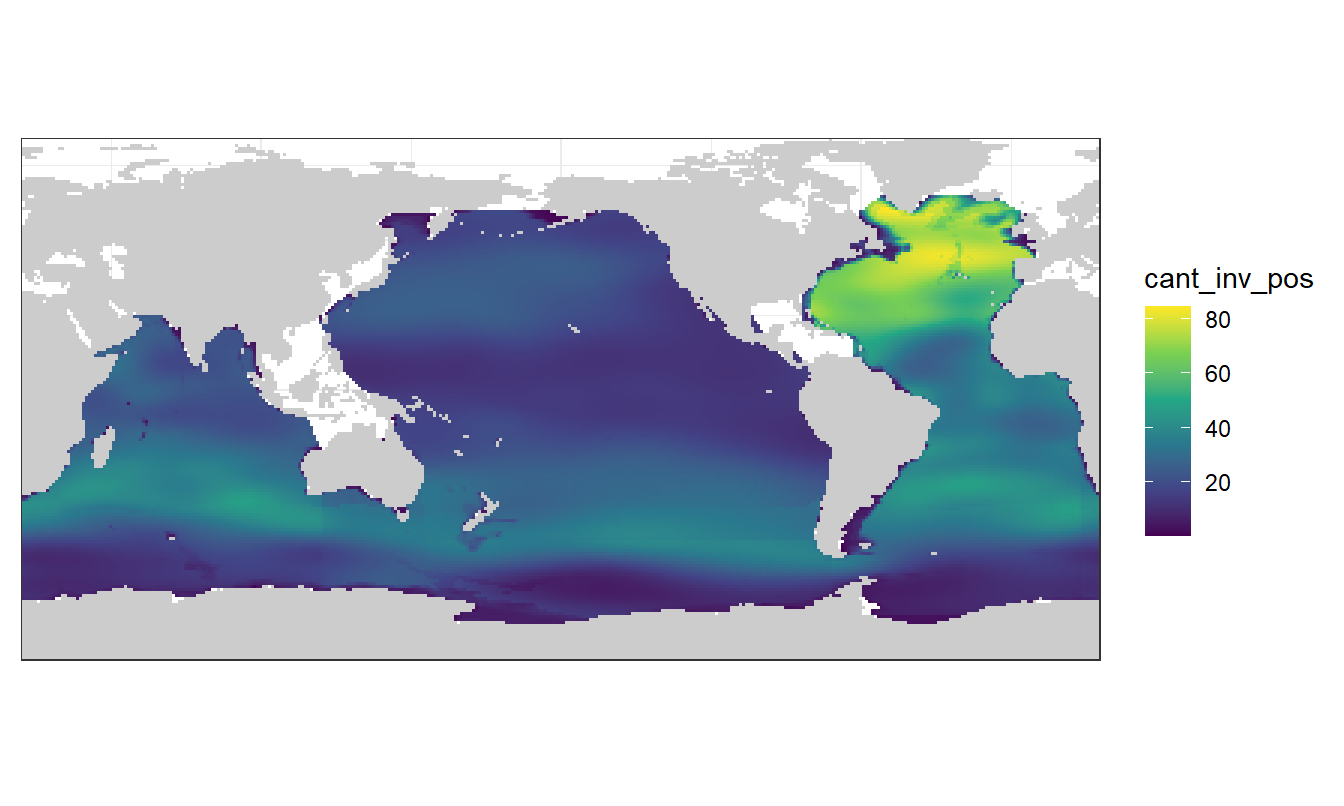
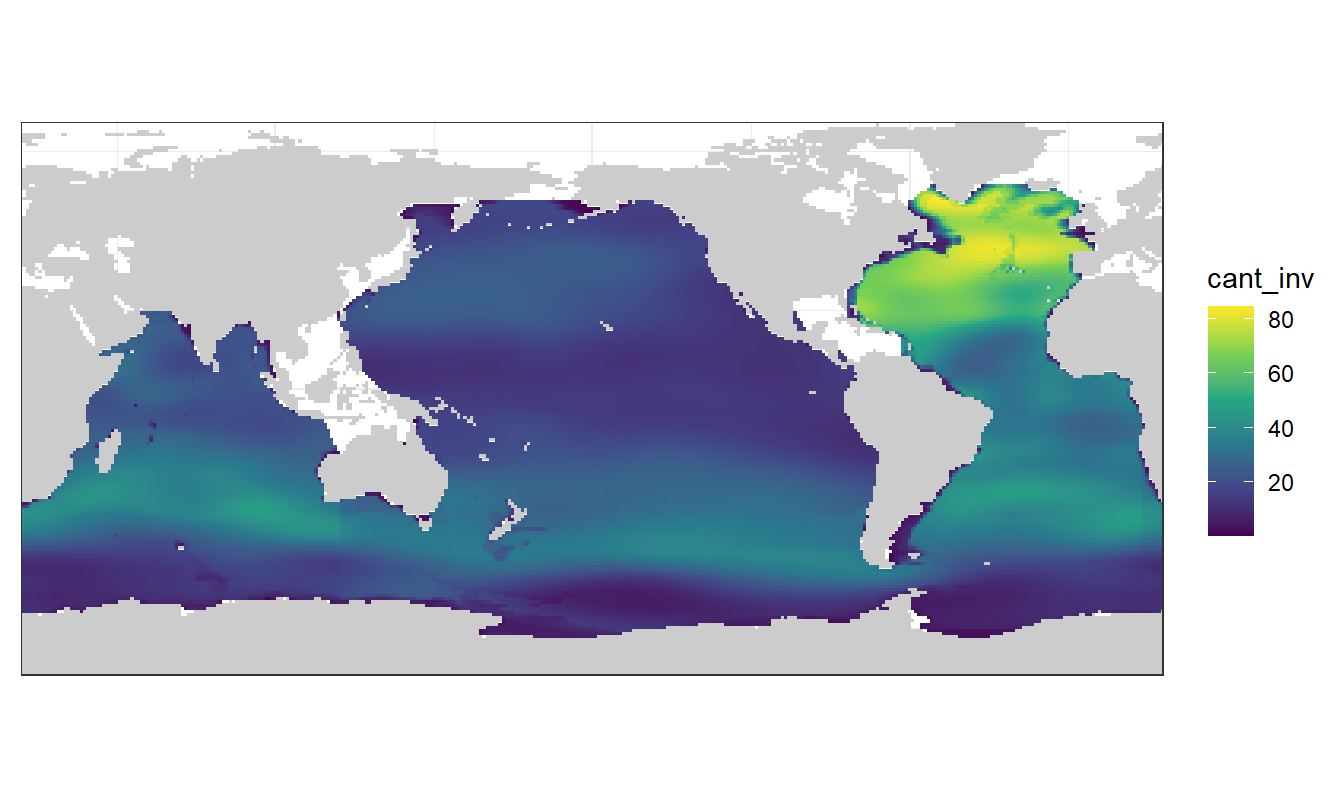
Build site.

diff --git a/docs/read_Sabine_2004_Cant.html b/docs/read_Sabine_2004_Cant.html
@@ -457,7 +457,7 @@ div.tocify {
 
 <h1 class="title toc-ignore">Anthropogenic CO2 from 1994 to 2007</h1>
 <h4 class="author">Jens Daniel Müller</h4>
-<h4 class="date">13 August, 2020</h4>
+<h4 class="date">14 August, 2020</h4>
 
 </div>
 
@@ -482,7 +482,7 @@ div.tocify {
 <div class="tab-content">
 <div id="summary" class="tab-pane fade in active">
 <p>
-<strong>Last updated:</strong> 2020-08-13
+<strong>Last updated:</strong> 2020-08-14
 </p>
 <p>
 <strong>Checks:</strong> <span class="glyphicon glyphicon-ok text-success" aria-hidden="true"></span> 7 <span class="glyphicon glyphicon-exclamation-sign text-danger" aria-hidden="true"></span> 0
@@ -573,16 +573,16 @@ This reproducible <a href="http://rmarkdown.rstudio.com">R Markdown</a> analysis
 <div class="panel panel-default">
 <div class="panel-heading">
 <p class="panel-title">
-<a data-toggle="collapse" data-parent="#workflowr-checks" href="#strongRepositoryversionstrongahrefhttpsgithubcomjensdanielmuellerCanteMLRtree333ea4b1747645952a82999f8598f2ccca0653cftargetblank333ea4ba"> <span class="glyphicon glyphicon-ok text-success" aria-hidden="true"></span> <strong>Repository version:</strong> <a href="https://github.com/jens-daniel-mueller/Cant_eMLR/tree/333ea4b1747645952a82999f8598f2ccca0653cf" target="_blank">333ea4b</a> </a>
+<a data-toggle="collapse" data-parent="#workflowr-checks" href="#strongRepositoryversionstrongahrefhttpsgithubcomjensdanielmuellerCanteMLRtree23556f68a629f7331179b66bff52a820c52f43eatargetblank23556f6a"> <span class="glyphicon glyphicon-ok text-success" aria-hidden="true"></span> <strong>Repository version:</strong> <a href="https://github.com/jens-daniel-mueller/Cant_eMLR/tree/23556f68a629f7331179b66bff52a820c52f43ea" target="_blank">23556f6</a> </a>
 </p>
 </div>
[2 lines of base64/hex data omitted]
 <div class="panel-body">
 <p>
 Great! You are using Git for version control. Tracking code development and connecting the code version to the results is critical for reproducibility.
 </p>
 <p>
-The results in this page were generated with repository version <a href="https://github.com/jens-daniel-mueller/Cant_eMLR/tree/333ea4b1747645952a82999f8598f2ccca0653cf" target="_blank">333ea4b</a>. See the <em>Past versions</em> tab to see a history of the changes made to the R Markdown and HTML files.
+The results in this page were generated with repository version <a href="https://github.com/jens-daniel-mueller/Cant_eMLR/tree/23556f68a629f7331179b66bff52a820c52f43ea" target="_blank">23556f6</a>. See the <em>Past versions</em> tab to see a history of the changes made to the R Markdown and HTML files.
 </p>
 <p>
 Note that you need to be careful to ensure that all relevant files for the analysis have been committed to Git prior to generating the results (you can use <code>wflow_publish</code> or <code>wflow_git_commit</code>). workflowr only checks the R Markdown file, but you know if there are other scripts or data files that it depends on. Below is the status of the Git repository when the results were generated:
@@ -603,9 +603,6 @@ Ignored files:
     Ignored:    data/parameters/
     Ignored:    dump/
     Ignored:    figure/
-
-Unstaged changes:
-    Modified:   analysis/_site.yml
 
 </code></pre>
 <p>
@@ -644,6 +641,40 @@ Message
 </tr>
 </thead>
 <tbody>
+<tr>
+<td>
+Rmd
+</td>
+<td>
+<a href="https://github.com/jens-daniel-mueller/Cant_eMLR/blob/23556f68a629f7331179b66bff52a820c52f43ea/analysis/read_Sabine_2004_Cant.Rmd" target="_blank">23556f6</a>
+</td>
+<td>
+jens-daniel-mueller
+</td>
+<td>
+2020-08-14
+</td>
+<td>
+changed cant naming in sabine inventory
+</td>
+</tr>
+<tr>
+<td>
+html
+</td>
+<td>
+<a href="https://rawcdn.githack.com/jens-daniel-mueller/Cant_eMLR/a3b6b6823d25b249d17ce4599d172c01bed9fe19/docs/read_Sabine_2004_Cant.html" target="_blank">a3b6b68</a>
+</td>
+<td>
+jens-daniel-mueller
+</td>
+<td>
+2020-08-13
+</td>
+<td>
+Build site.
+</td>
+</tr>
 <tr>
 <td>
 html
@@ -1023,8 +1054,8 @@ Cant &lt;- layer_inventory(Cant, &quot;cant&quot;)
 Cant_inv &lt;- Cant %&gt;% 
   filter(depth &lt;= parameters$inventory_depth) %&gt;% 
   group_by(lon, lat, basin) %&gt;% 
-  summarise(cant_inv_pos = sum(layer_inv_pos, na.rm = TRUE) / 1000,
-            cant_inv     = sum(layer_inv, na.rm = TRUE) / 1000) %&gt;% 
+  summarise(cant_inv = sum(layer_inv_pos, na.rm = TRUE) / 1000,
+            cant_inv_incl_neg = sum(layer_inv, na.rm = TRUE) / 1000) %&gt;% 
   ungroup()</code></pre>
 </div>
 <div id="cant-plots" class="section level1">
@@ -1057,7 +1088,7 @@ Cant_inv &lt;- Cant %&gt;%
 </div>
 <div id="inventory-maps" class="section level2">
 <h2><span class="header-section-number">5.4</span> Inventory maps</h2>
-<pre class="r"><code>map_climatology_inv(Cant_inv, &quot;cant_inv_pos&quot;)</code></pre>
+<pre class="r"><code>map_climatology_inv(Cant_inv, &quot;cant_inv&quot;)</code></pre>
 <p><img src="figure/read_Sabine_2004_Cant.Rmd/Cant_inv_pos_maps-1.png" width="672" style="display: block; margin: auto;" /></p>
 </div>
 <div id="write-files" class="section level2">

diff --git a/docs/analysis.html b/docs/analysis.html
@@ -573,16 +573,16 @@ This reproducible <a href="http://rmarkdown.rstudio.com">R Markdown</a> analysis
 <div class="panel panel-default">
 <div class="panel-heading">
 <p class="panel-title">
-<a data-toggle="collapse" data-parent="#workflowr-checks" href="#strongRepositoryversionstrongahrefhttpsgithubcomjensdanielmuellerCanteMLRtree5842a923bb0df3cbdf3f8b4e3247c38af25ffd71targetblank5842a92a"> <span class="glyphicon glyphicon-ok text-success" aria-hidden="true"></span> <strong>Repository version:</strong> <a href="https://github.com/jens-daniel-mueller/Cant_eMLR/tree/5842a923bb0df3cbdf3f8b4e3247c38af25ffd71" target="_blank">5842a92</a> </a>
+<a data-toggle="collapse" data-parent="#workflowr-checks" href="#strongRepositoryversionstrongahrefhttpsgithubcomjensdanielmuellerCanteMLRtree23556f68a629f7331179b66bff52a820c52f43eatargetblank23556f6a"> <span class="glyphicon glyphicon-ok text-success" aria-hidden="true"></span> <strong>Repository version:</strong> <a href="https://github.com/jens-daniel-mueller/Cant_eMLR/tree/23556f68a629f7331179b66bff52a820c52f43ea" target="_blank">23556f6</a> </a>
 </p>
 </div>
[2 lines of base64/hex data omitted]
 <div class="panel-body">
 <p>
 Great! You are using Git for version control. Tracking code development and connecting the code version to the results is critical for reproducibility.
 </p>
 <p>
-The results in this page were generated with repository version <a href="https://github.com/jens-daniel-mueller/Cant_eMLR/tree/5842a923bb0df3cbdf3f8b4e3247c38af25ffd71" target="_blank">5842a92</a>. See the <em>Past versions</em> tab to see a history of the changes made to the R Markdown and HTML files.
+The results in this page were generated with repository version <a href="https://github.com/jens-daniel-mueller/Cant_eMLR/tree/23556f68a629f7331179b66bff52a820c52f43ea" target="_blank">23556f6</a>. See the <em>Past versions</em> tab to see a history of the changes made to the R Markdown and HTML files.
 </p>
 <p>
 Note that you need to be careful to ensure that all relevant files for the analysis have been committed to Git prior to generating the results (you can use <code>wflow_publish</code> or <code>wflow_git_commit</code>). workflowr only checks the R Markdown file, but you know if there are other scripts or data files that it depends on. Below is the status of the Git repository when the results were generated:
@@ -641,6 +641,40 @@ Message
 </tr>
 </thead>
 <tbody>
+<tr>
+<td>
+Rmd
+</td>
+<td>
+<a href="https://github.com/jens-daniel-mueller/Cant_eMLR/blob/23556f68a629f7331179b66bff52a820c52f43ea/analysis/analysis.Rmd" target="_blank">23556f6</a>
+</td>
+<td>
+jens-daniel-mueller
+</td>
+<td>
+2020-08-14
+</td>
+<td>
+changed cant naming in sabine inventory
+</td>
+</tr>
+<tr>
+<td>
+html
+</td>
+<td>
+<a href="https://rawcdn.githack.com/jens-daniel-mueller/Cant_eMLR/6d3d9b953b1230d31d66db014e5e279c4296f418/docs/analysis.html" target="_blank">6d3d9b9</a>
+</td>
+<td>
+jens-daniel-mueller
+</td>
+<td>
+2020-08-14
+</td>
+<td>
+Build site.
+</td>
+</tr>
 <tr>
 <td>
 Rmd
@@ -933,9 +967,7 @@ Cant_07_inv &lt;-
 <div id="merge-data-sets" class="section level2">
 <h2><span class="header-section-number">2.1</span> Merge data sets</h2>
 <pre class="r"><code>Cant_94_inv &lt;- Cant_94_inv %&gt;% 
-  select(-cant_inv) %&gt;% 
-  rename(cant_inv = cant_inv_pos)
-
+  select(-cant_inv_incl_neg)
 
 Cant_inv &lt;- full_join(Cant_07_inv %&gt;% mutate(estimate = &quot;G19&quot;),
                       Cant_94_inv %&gt;% mutate(estimate = &quot;S04&quot;))
@@ -963,6 +995,7 @@ rm(Cant_07_inv, Cant_94_inv)</code></pre>
 </div>
 <div id="global-inventories" class="section level2">
 <h2><span class="header-section-number">2.3</span> Global inventories</h2>
+<p>Global anthropogenic CO2 inventories were estimated in Pg-C. Please note that here we onyl added positive Cant values in the upper 3000m and do not apply additional corrections for areas not covered.</p>
 <pre class="r"><code>Cant_inv &lt;- Cant_inv %&gt;% 
   mutate(surface_area = earth_surf(lat, lon),
          cant_inv_grid = cant_inv*surface_area)
@@ -1019,9 +1052,7 @@ Cant_inv_rel &lt;- Cant_inv_wide %&gt;%
   filter(cant_ratio_rel &lt; 10,
          cant_ratio_rel &gt; 0.1) %&gt;% 
   ggplot() +
-  geom_raster(data = landmask %&gt;% filter(region == &quot;land&quot;,
-                                         lat &lt;= 65,
-                                         lat &gt;= -80),
+  geom_raster(data = landmask %&gt;% filter(region == &quot;land&quot;),
               aes(lon, lat),
               fill = &quot;grey80&quot;) +
   geom_contour_filled(aes(lon, lat, z = log10(cant_ratio_rel))) +
